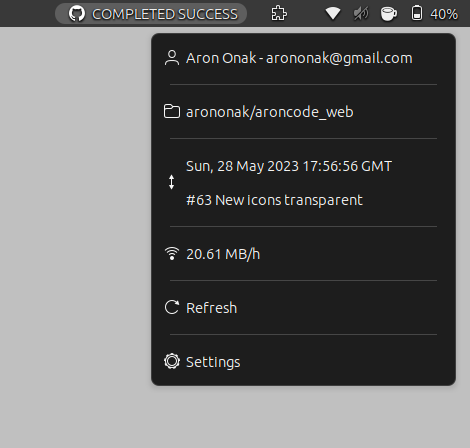
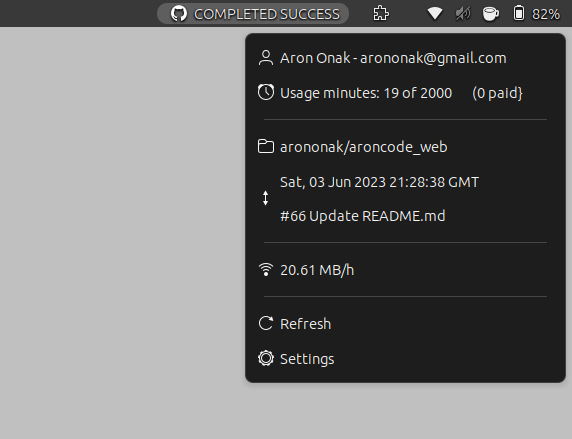
Added actions minutes

Changed region(s): [[0.1191, 0.0, 1.0, 0.8884]]

diff --git a/github-actions@arononak.github.io/extension.js b/github-actions@arononak.github.io/extension.js
@@ -66,6 +66,32 @@ async function isLogged() {
     });
 }
 
+async function fetchUserActionsMinutes(username) {
+    return new Promise((resolve, reject) => {
+        try {
+            let proc = Gio.Subprocess.new(
+                ['gh', 'api', '-H', 'Accept: application/vnd.github+json', '-H', 'X-GitHub-Api-Version: 2022-11-28', '/users/' + username + '/settings/billing/actions'],
+                Gio.SubprocessFlags.STDOUT_PIPE | Gio.SubprocessFlags.STDERR_PIPE
+            );
+
+            proc.communicate_utf8_async(null, null, (proc, res) => {
+                let [, stdout, stderr] = proc.communicate_utf8_finish(res);
+
+                if (proc.get_successful()) {
+                    const response = JSON.parse(stdout);
+                    resolve(response);
+                    return;
+                } else {
+                    throw new Error(stderr);
+                }
+            });
+        } catch (e) {
+            logError(e);
+            resolve(null);
+        }
+    });
+}
+
 async function fetchUser() {
     const logged = await isLogged();
 
@@ -143,8 +169,17 @@ async function refresh(settings, indicator) {
         const repo = settings.get_string('repo');
 
         if (!utils.isEmpty(owner) && !utils.isEmpty(repo)) {
-            let run = await fetchWorkflowRun(owner, repo);
-            let user = await fetchUser();
+            const user = await fetchUser();
+
+            const userLogin = user['login']
+            const userEmail = user['email'];
+            const userName = user['name'];
+
+            const userActionsMinutes = await fetchUserActionsMinutes(userLogin);
+
+            const parsedMinutes = 'Usage minutes: ' + userActionsMinutes['total_minutes_used'] + ' of ' + userActionsMinutes['included_minutes'] + '\t(' + userActionsMinutes['total_paid_minutes_used'] + ' paid}';
+
+            const run = await fetchWorkflowRun(owner, repo);
 
             if (run == null) {
                 indicator.clear();
@@ -179,10 +214,11 @@ async function refresh(settings, indicator) {
                     }
                 }
 
-                indicator.label.text = currentState;;
+                indicator.label.text = currentState;
                 indicator.workflowUrl = workflowUrl;
                 indicator.repositoryUrl = repositoryUrl;
-                indicator.userItem.label.text = user['name'] + ' - ' + user['email'];
+                indicator.userItem.label.text = userName + ' - ' + userEmail;
+                indicator.minutesItem.label.text = parsedMinutes;
                 indicator.ownerAndRepoItem.label.text = ownerAndRepo;
                 indicator.infoItem.label.text = date.toUTCString() + "\n\n#" + runNumber + " " + displayTitle;
                 indicator.packageSizeItem.label.text = utils.prefsDataConsumptionPerHour(settings);
@@ -214,15 +250,19 @@ const Indicator = GObject.registerClass(
 
             /// Username + email
             this.userItem = new PopupMenu.PopupImageMenuItem(loadingText, 'avatar-default-symbolic');
-            this.userItem.connect('activate', () => {});
+            this.userItem.connect('activate', () => { });
             this.menu.addMenuItem(this.userItem);
+
+            /// Actions minutes
+            this.minutesItem = new PopupMenu.PopupImageMenuItem(loadingText, 'alarm-symbolic');
+            this.minutesItem.connect('activate', () => { });
+            this.menu.addMenuItem(this.minutesItem);
             this.menu.addMenuItem(new PopupMenu.PopupSeparatorMenuItem());
 
             /// Owner and Repo
             this.ownerAndRepoItem = new PopupMenu.PopupImageMenuItem(loadingText, 'system-file-manager-symbolic');
             this.ownerAndRepoItem.connect('activate', () => utils.openUrl(this.repositoryUrl));
             this.menu.addMenuItem(this.ownerAndRepoItem);
-            this.menu.addMenuItem(new PopupMenu.PopupSeparatorMenuItem());
 
             /// Info
             this.infoItem = new PopupMenu.PopupImageMenuItem(loadingText, 'object-flip-vertical-symbolic');
@@ -240,7 +280,6 @@ const Indicator = GObject.registerClass(
             this.refreshItem = new PopupMenu.PopupImageMenuItem(_('Refresh'), 'view-refresh-symbolic');
             this.refreshItem.connect('activate', () => this.refreshCallback());
             this.menu.addMenuItem(this.refreshItem);
-            this.menu.addMenuItem(new PopupMenu.PopupSeparatorMenuItem());
 
             /// Settings
             this.settingsItem = new PopupMenu.PopupImageMenuItem(_('Settings'), 'system-settings-symbolic');
